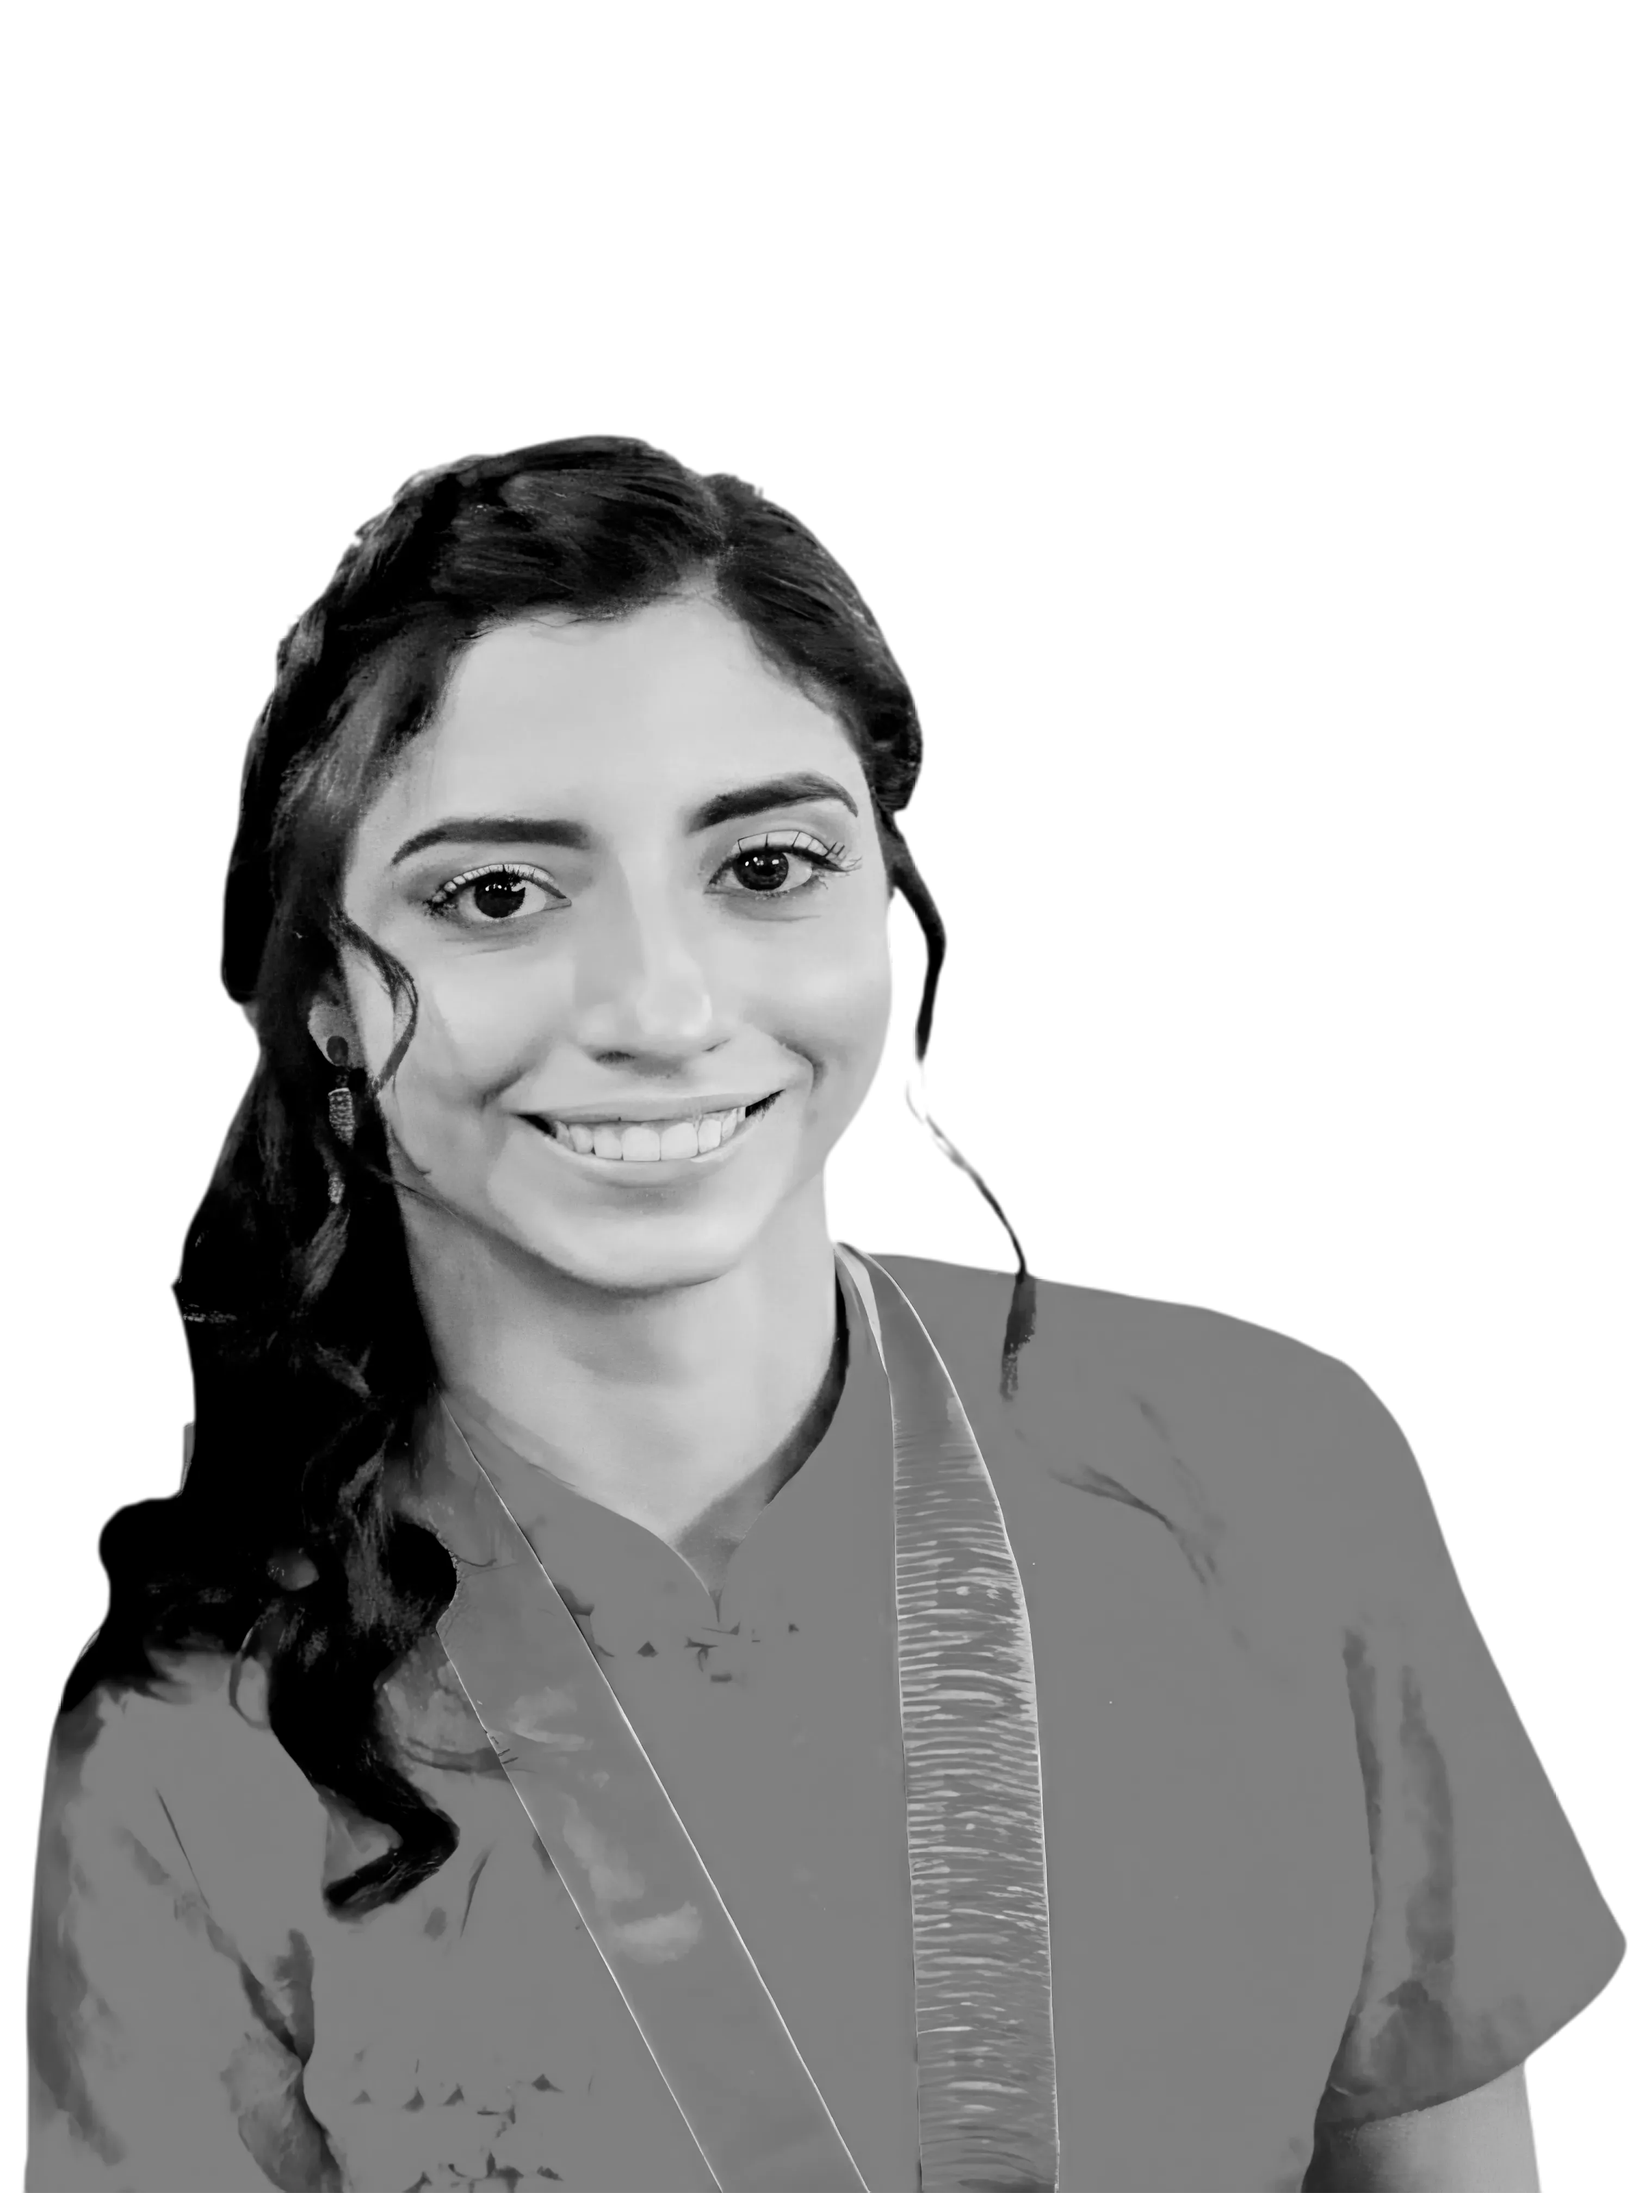
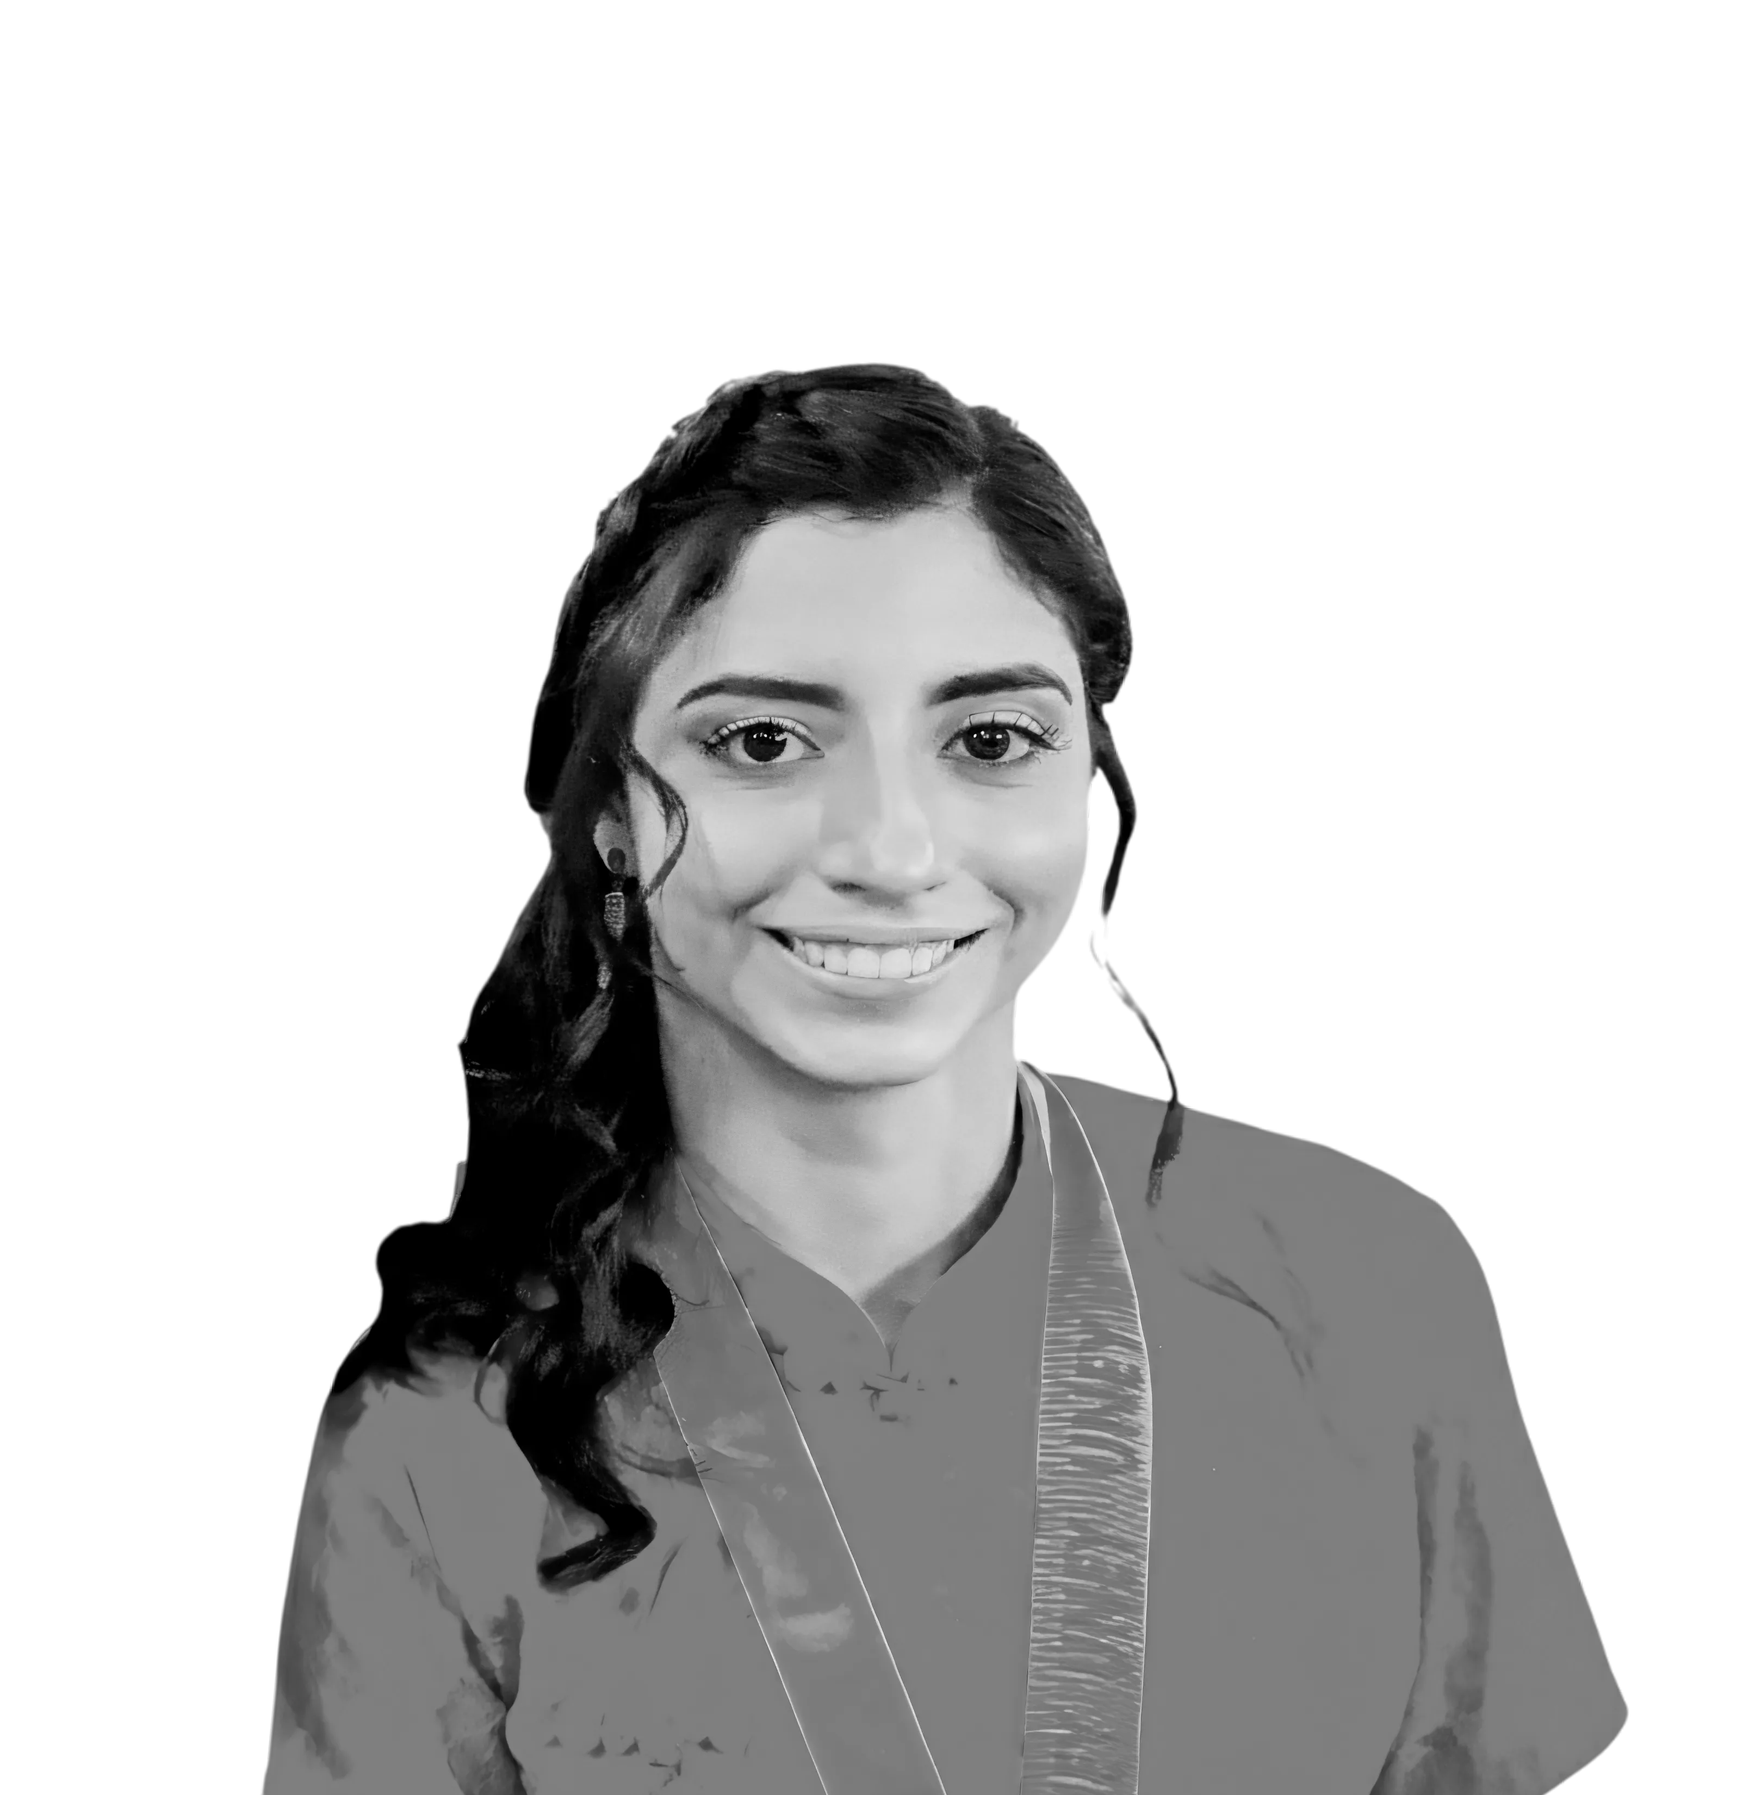
Web 3.5

diff --git a/walkiria-jimenez/index.html b/walkiria-jimenez/index.html
@@ -202,7 +202,7 @@
   </div>
 
   <div class="education-right">
-    <img src="../img/retrato-w.webp" alt="Educación" loading="lazy">
+    <img src="../img/retrato-w2.webp" alt="Educación" loading="lazy">
   </div>
 </section>
 
